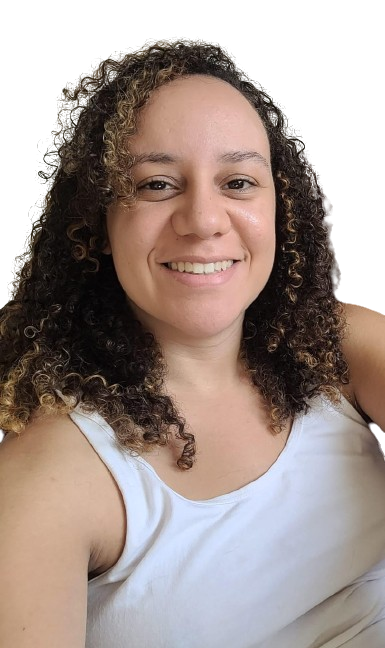
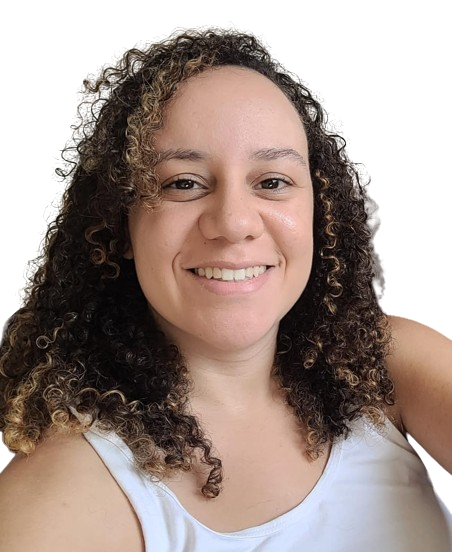
Alteração da foto do perfil e inclusão da responsividade

diff --git a/index.html b/index.html
@@ -14,6 +14,7 @@
 
     <link rel="stylesheet" href="src/css/resset.css">
     <link rel="stylesheet" href="src/css/style.css">
+    <link rel="stylesheet" href="src/css/responsive.css">
 
   </head>
   <body>
@@ -76,10 +77,10 @@
 
       <div class="container-projetos">
         <div class="projeto ativo">
-          <a href="https://github.com/devemdobro/projeto-gta" target="_blank">
+          <a href="https://cinthiacomh.github.io/landing-page-ice-menu/" target="_blank">
             <img
-              src="src/images/projeto-gta.png"
-              alt="Projeto Landing page GTA"
+              src="src/images/projeto-ice-menu.png"
+              alt="Projeto Landing page Ice Menu"
             />
             <h3>Projeto 1</h3>
 
@@ -109,12 +110,12 @@
 
         <div class="projeto ativo">
           <a
-            href="https://github.com/devemdobro/projeto-one-piece-final"
+            href="https://github.com/devemdobro/projeto-gta"
             target="_blank"
           >
             <img
-              src="src/images/projeto-one-piece.png"
-              alt="Projeto landing page One Piece"
+              src="src/images/projeto-gta.png"
+              alt="Projeto Landing page GTA"
             />
             <h3>Projeto 3</h3>
             <div class="informacoes-projeto">

diff --git a/src/css/responsive.css b/src/css/responsive.css
@@ -1,0 +1,41 @@
+@media(max-width: 1280px) {
+    
+    .cabecalho {
+        padding: 30px;
+    }
+
+    .home {
+        flex-direction: column;
+        align-items: center;
+        margin: 50px 0;
+        gap: 30px;
+    }
+
+    .home .informacoes {
+        max-width: 100%;
+        text-align: center;
+        align-items: center;
+    }
+
+    .projetos .container-projetos {
+        padding: 0 30px;
+    }
+}
+
+@media(max-width: 425px) {
+    .home .informacoes h1 {
+        font-size: 30px;
+    }
+
+    .home .informacoes p {
+        font-size: 16px;
+    }
+
+    .home .container-foto img {
+        max-width: 320px;
+    }
+
+    .projetos {
+        padding: 30px;
+    }
+}
